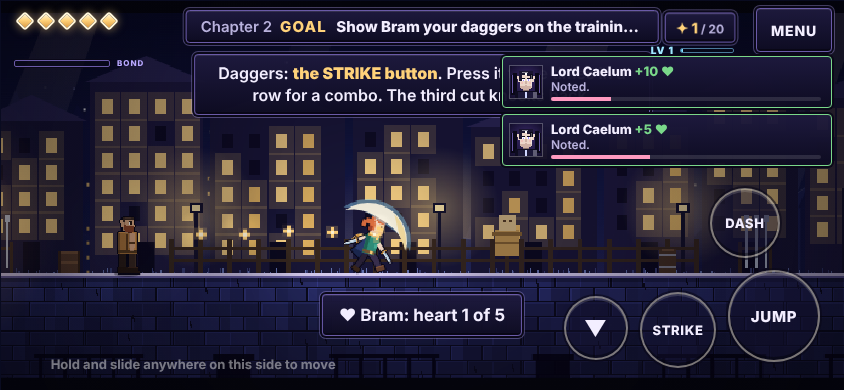
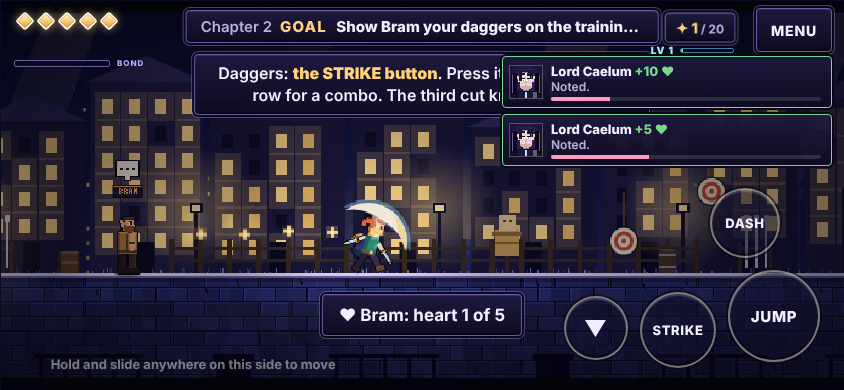
Starhaven Reimagined 10: Chapter 2 content, fuller fuzz coverage
Chapter 2 gains Bram's question (three answers, two remembered), three rings
that need a cut, a rising strike and an air strike, and sugared plums for
Iris, each called back that evening. The fuzz test now varies dialogue
answers so it plays all of Under the Mountain.

Claude-Session: https://claude.ai/code/session_01PwDoV4SgoNJ5FnbkB1YJ2V

diff --git a/starhaven/game/starhaven.html b/starhaven/game/starhaven.html
@@ -1238,10 +1238,34 @@ h2 { letter-spacing: .12em; text-transform: uppercase; }
       ['wren', '...I know. I\'m staying anyway.'],
       { do: 'bond', who: 'caelum', pts: 20 },
     ],
+    // Chapter 2, more to do
+    ring_bram_talk: [
+      ['bram', 'Before you swing at anything: why are you here, huntress? Not "he stole me". Why are you still here?'],
+      { choose: [
+        { text: '"Because nobody here has lied to me yet."', bond: { bram: 10 }, why: 'He respects a reason that small and that true.', remember: ['bramTruth', 'Told Bram she stays because nobody here has lied to her.', true], then: [['bram', 'Hm. Give it a week. But that\'s a soldier\'s answer. I\'ll take it.']] },
+        { text: '"I\'m here to get strong enough to leave."', bond: { bram: 5 }, why: 'Honest. He\'d have said the same at your age.', remember: ['bramLeave', 'Told Bram she is here to get strong enough to leave.', null], then: [['bram', 'Then I\'ll train you well enough that leaving is your choice and not anyone else\'s.']] },
+        { text: '"That\'s between me and your High Lord."', bond: { bram: -5 }, why: 'He has buried people who kept things from him.', then: [['bram', 'Everything in this city is between you and the people who\'ll bleed next to you. Remember that.']] },
+      ] },
+      ['bram', 'There are three rings hung past the dummy. Cut them all and I\'ll believe your feet as well as your mouth.'],
+    ],
+    ring_rings: [
+      { do: 'flag', name: 'rings3' },
+      ['bram', 'Low, rising, and one from the air. Who taught you to read a target?'],
+      ['wren', 'My father. With a bow, and worse manners.'],
+      { do: 'remember', key: 'rings', text: 'Cut all three of Bram\'s rings.', good: true },
+      { do: 'bond', who: 'bram', pts: 10, liked: true, why: 'Three for three. He stopped pretending not to watch.' },
+    ],
+    ring_plums: [
+      ['narr', 'A market crate, burst open in the thornwood. Most of it is ruined. One paper twist of sugared plums is not.'],
+      ['wren', 'Somebody ran from here in a hurry. ...Iris said something about plums.'],
+      { do: 'remember', key: 'plums', text: 'Saved a twist of sugared plums from the thornwood.', good: true },
+    ],
     ev2_bram: [
       { do: 'art', id: 'fire', title: 'Evening with Bram' },
       ['narr', 'The Training Ring after dark. Bram is burning old practice dummies in a fire pit.'],
       ['bram', 'Come to gloat? You broke my best dummy.'],
+      { if: 'rings', then: [['bram', 'And cut my rings. All three. I\'ve had captains who couldn\'t.']] },
+      { if: 'bramTruth', then: [['bram', 'You said nobody here had lied to you yet. Still true?'], ['wren', 'Still true.'], ['bram', 'Good. Keep counting.']] },
       { choose: [
         { text: 'Bring him spiced bread from the market', liked: 'bram', bond: { bram: 15 }, then: [
           ['bram', 'Is that from the Night Market? Sit down, huntress. You\'re officially my favorite. Don\'t tell Iris.'],
@@ -1263,6 +1287,7 @@ h2 { letter-spacing: .12em; text-transform: uppercase; }
       { do: 'art', id: 'observatory', title: 'Evening with Iris' },
       ['narr', 'A round tower above the Library, full of maps, candles and threads of starlight hanging in the air.'],
       ['iris', 'You came! Nobody visits the seer. They\'re afraid I\'ll tell them how they die.'],
+      { if: 'plums', then: [['wren', 'I found these in the thornwood. I think they were coming to you.'], ['iris', 'SUGARED PLUMS. I saw these arriving and I didn\'t dare believe it. You are my favourite thread.'], { do: 'bond', who: 'iris', pts: 15, liked: true, why: 'Sugared plums, carried out of a thornwood, for her.' }] },
       { choose: [
         { text: 'Bring her sugared plums', liked: 'iris', bond: { iris: 15 }, then: [
           ['iris', 'Plums! Sugared! Oh, you\'re a good thread, Wren. A very good thread.'],
@@ -1635,6 +1660,7 @@ h2 { letter-spacing: .12em; text-transform: uppercase; }
     ],
     hints: [
       { x0: 14, x1: 32, text: 'Daggers: {ATTACK}. Press it three times in a row for a combo. The third cut knocks back.' },
+      { x0: 26, x1: 36, text: 'Bram\'s rings. Cut all three: the low one from the ground, the middle one with a rising strike (hold up and {ATTACK}), the high one from a jump.', until: 'rings3' },
       { x0: 36, x1: 44, text: 'Jump toward a bud. When you are above it, {DOWNSTRIKE} to strike down and bounce.', flag: 'combo' },
       { x0: 61, x1: 69, text: 'Two more cuts: {ATTACK} during a dash is a lunging dash strike. Hold up and {ATTACK} for a rising strike that carries you into the air.', flag: 'pit' },
       { x0: 69, x1: 80, text: 'Thorn sprites glow orange before they lunge. {DASH} through the lunge, then strike.', flag: 'pit' },
@@ -1645,9 +1671,12 @@ h2 { letter-spacing: .12em; text-transform: uppercase; }
     ],
     gates: [{ id: 'pitgate', x: 38, top: 6 }, { id: 'northgate', x: 64, top: 6 }],
     lanterns: [{ x: 4, lit: true }, { x: 61 }, { x: 68 }],
-    npcs: [{ id: 'bram', x: 11 }, { id: 'iris', x: 62.5, optional: 'iris' }],
+    npcs: [{ id: 'bram', x: 11, optional: 'ring_bram_talk' }, { id: 'iris', x: 62.5, optional: 'iris' }],
     spawns: [
       { kind: 'dummy', x: 24 },
+      // Bram's three rings: one at chest height, one that wants a rising strike, one that wants a strike from a jump
+      { kind: 'target', blade: true, x: 28, y: 14.9 }, { kind: 'target', blade: true, x: 31, y: 13.2 }, { kind: 'target', blade: true, x: 34.5, y: 11.6 },
+      { kind: 'pickup', what: 'plums', x: 97 },
       { kind: 'bulb', x: 45.5, y: 12.6 },
       { kind: 'bulb', x: 50.5, y: 12.4 },
       { kind: 'bulb', x: 55.5, y: 12.6 },
@@ -2876,7 +2905,7 @@ h2 { letter-spacing: .12em; text-transform: uppercase; }
     this.near = !this.checked && Math.abs(p.x - this.x) < 26 && Math.abs(p.y - this.y) < 30 && p.grounded;
     if (this.near && world.input.pressed.up) { this.checked = true; this.near = false; world.onSnare(this.n); }
   };
-  function Target(x, y) { Object.assign(this, { kind: 'target', x, y, hit: false, arrowOnly: true, wob: 0 }); }
+  function Target(x, y, blade) { Object.assign(this, { kind: 'target', x, y, hit: false, arrowOnly: !blade, blade: !!blade, wob: 0 }); }   // blade: Bram's rings, cut with daggers
   Target.prototype.reset = function () { };
   Target.prototype.hittable = function () { return !this.hit; };
   Target.prototype.hurtBox = function () { return { l: this.x - 10, r: this.x + 10, t: this.y - 15, b: this.y + 15 }; };
@@ -2884,7 +2913,7 @@ h2 { letter-spacing: .12em; text-transform: uppercase; }
   Target.prototype.takeHit = function (hit, world) {
     this.hit = true; this.wob = 30; SH.sfx.play('hit');
     SH.fx.word(this.x, this.y - 22, 'BULLSEYE', '#ffd27a', 50); SH.fx.spark(this.x, this.y, 0, true);
-    world.onTarget(); return { landed: true };
+    world.onTarget(this); return { landed: true };
   };
   // The wolf is as hungry as the sisters. One arrow and it backs off hurt: then it is Wren's choice,
   // made with the bow and not a menu. Shoot again, or lower the bow and let it go.
@@ -3113,7 +3142,7 @@ h2 { letter-spacing: .12em; text-transform: uppercase; }
     if (s.kind === 'brazier') return new Brazier(x, y);
     if (s.kind === 'pickup') return new Pickup(x, y, s.what);
     if (s.kind === 'snare') return new Snare(x, y, s.n);
-    if (s.kind === 'target') return new Target(x, s.y * T);
+    if (s.kind === 'target') return new Target(x, s.y * T, s.blade);
     if (s.kind === 'wolf') return new Wolf(x, y);
     if (s.kind === 'wyrmling' || s.kind === 'oldWyrm') return new Wyrm(x, y, s.kind);
     throw new Error('unknown spawn ' + s.kind);
@@ -5790,6 +5819,7 @@ h2 { letter-spacing: .12em; text-transform: uppercase; }
       const bob = Math.round(Math.sin(t * 0.08 + e.x) * 1.5);
       const gl = ctx.createRadialGradient(e.x, e.y - 8, 1, e.x, e.y - 8, 22); gl.addColorStop(0, 'rgba(255,246,216,0.3)'); gl.addColorStop(1, 'rgba(0,0,0,0)'); ctx.fillStyle = gl; ctx.fillRect(e.x - 22, e.y - 30, 44, 44);
       if (e.what === 'cat') { const tl = Math.sin(t * 0.1) * 2; R(-7, -9, 13, 8, '#0a0818'); R(-6, -8, 11, 7, '#2a2630'); R(3, -13, 7, 7, '#0a0818'); R(4, -12, 5, 5, '#2a2630'); R(4, -14, 2, 2, '#2a2630'); R(7, -14, 2, 2, '#2a2630'); R(5, -10, 1, 1, '#ffd27a'); R(7, -10, 1, 1, '#ffd27a'); R(-9, -10 + tl, 2, 6, '#2a2630'); R(-5, -5, 3, 1, '#f4f0e0'); }
+      else if (e.what === 'plums') { R(-7, -9 + bob, 14, 9, '#0a0818'); R(-6, -8 + bob, 12, 7, '#6a4a34'); R(-6, -8 + bob, 12, 1, '#a8743a'); for (let i = 0; i < 3; i++) { R(-5 + i * 4, -12 + bob, 3, 4, '#7a3a8a'); R(-5 + i * 4, -12 + bob, 1, 1, '#ffffff'); } }
       else if (e.what === 'page') { R(-6, -12 + bob, 12, 14, '#0a0818'); R(-5, -11 + bob, 10, 12, '#f4f0e0'); for (let i = 0; i < 4; i++) R(-3, -9 + i * 3 + bob, 6, 1, '#6a5aa8'); R(-5, -11 + bob, 3, 3, '#e8c070'); }
       else if (e.what === 'wood') { R(-10, -9 + bob, 20, 9, '#0a0818'); R(-9, -8 + bob, 18, 3, '#7a5636'); R(-9, -5 + bob, 18, 3, '#5e3e28'); R(-9, -2 + bob, 18, 1, '#4a3020'); R(-9, -8 + bob, 2, 6, '#c8a878'); R(-2, -10 + bob, 3, 10, '#c8b890'); R(-9, -8 + bob, 18, 1, '#ffffff'); }
       else { R(-1, -12 + bob, 2, 12, '#3f6a3f'); R(-6, -12 + bob, 5, 3, '#8fd16b'); R(1, -15 + bob, 5, 3, '#8fd16b'); R(-5, -7 + bob, 4, 3, '#6ab04a'); R(2, -9 + bob, 4, 3, '#6ab04a'); R(-1, -17 + bob, 2, 2, '#ff9ac0'); }
@@ -6003,6 +6033,7 @@ h2 { letter-spacing: .12em; text-transform: uppercase; }
       onStagDown() { SH.sfx.play('kill'); G.queueScript('woods_kill'); },
       // the Winter Woods
       onPickup(what) {
+        if (what === 'plums') { G.queueScript('ring_plums'); return; }
         if (what === 'cat') { G.queueScript('ashes_cat_found'); return; }
         if (what === 'page') { G.queueScript('mtn_page'); return; }
         if (what === 'herb') { G.remember('green', 'Found wintergreen under the snow for Lissa.', true); G.queueScript('woods_herb'); return; }
@@ -6011,7 +6042,7 @@ h2 { letter-spacing: .12em; text-transform: uppercase; }
         if (G.flags.n_wood === 3) G.queueScript('woods_wood');
       },
       onSnare(n) { SH.xp.gain(3, true); G.flags.n_snares = (G.flags.n_snares || 0) + 1; if (G.flags.n_snares >= 3) G.flags.snares3 = true; G.hud.goal(true); G.queueScript('woods_snare' + n); },
-      onTarget() { SH.xp.gain(4, true); G.flags.n_targets = (G.flags.n_targets || 0) + 1; if (G.flags.n_targets === 3) G.queueScript('woods_targets'); },
+      onTarget(tg) { SH.xp.gain(4, true); if (tg && tg.blade) { G.flags.n_rings = (G.flags.n_rings || 0) + 1; if (G.flags.n_rings === 3) G.queueScript('ring_rings'); return; } G.flags.n_targets = (G.flags.n_targets || 0) + 1; if (G.flags.n_targets === 3) G.queueScript('woods_targets'); },
       onWolf(what) { if (what === 'killed' || what === 'spared') SH.xp.gain(15, true); G.queueScript('woods_wolf_' + what); },
       onDummyCombo() { if (G.activeGoal === 'combo' && def.dummyCombo) G.queueScript(def.dummyCombo); },
     };

diff --git a/starhaven/game/src/story.js b/starhaven/game/src/story.js
@@ -627,10 +627,34 @@
       ['wren', '...I know. I\'m staying anyway.'],
       { do: 'bond', who: 'caelum', pts: 20 },
     ],
+    // Chapter 2, more to do
+    ring_bram_talk: [
+      ['bram', 'Before you swing at anything: why are you here, huntress? Not "he stole me". Why are you still here?'],
+      { choose: [
+        { text: '"Because nobody here has lied to me yet."', bond: { bram: 10 }, why: 'He respects a reason that small and that true.', remember: ['bramTruth', 'Told Bram she stays because nobody here has lied to her.', true], then: [['bram', 'Hm. Give it a week. But that\'s a soldier\'s answer. I\'ll take it.']] },
+        { text: '"I\'m here to get strong enough to leave."', bond: { bram: 5 }, why: 'Honest. He\'d have said the same at your age.', remember: ['bramLeave', 'Told Bram she is here to get strong enough to leave.', null], then: [['bram', 'Then I\'ll train you well enough that leaving is your choice and not anyone else\'s.']] },
+        { text: '"That\'s between me and your High Lord."', bond: { bram: -5 }, why: 'He has buried people who kept things from him.', then: [['bram', 'Everything in this city is between you and the people who\'ll bleed next to you. Remember that.']] },
+      ] },
+      ['bram', 'There are three rings hung past the dummy. Cut them all and I\'ll believe your feet as well as your mouth.'],
+    ],
+    ring_rings: [
+      { do: 'flag', name: 'rings3' },
+      ['bram', 'Low, rising, and one from the air. Who taught you to read a target?'],
+      ['wren', 'My father. With a bow, and worse manners.'],
+      { do: 'remember', key: 'rings', text: 'Cut all three of Bram\'s rings.', good: true },
+      { do: 'bond', who: 'bram', pts: 10, liked: true, why: 'Three for three. He stopped pretending not to watch.' },
+    ],
+    ring_plums: [
+      ['narr', 'A market crate, burst open in the thornwood. Most of it is ruined. One paper twist of sugared plums is not.'],
+      ['wren', 'Somebody ran from here in a hurry. ...Iris said something about plums.'],
+      { do: 'remember', key: 'plums', text: 'Saved a twist of sugared plums from the thornwood.', good: true },
+    ],
     ev2_bram: [
       { do: 'art', id: 'fire', title: 'Evening with Bram' },
       ['narr', 'The Training Ring after dark. Bram is burning old practice dummies in a fire pit.'],
       ['bram', 'Come to gloat? You broke my best dummy.'],
+      { if: 'rings', then: [['bram', 'And cut my rings. All three. I\'ve had captains who couldn\'t.']] },
+      { if: 'bramTruth', then: [['bram', 'You said nobody here had lied to you yet. Still true?'], ['wren', 'Still true.'], ['bram', 'Good. Keep counting.']] },
       { choose: [
         { text: 'Bring him spiced bread from the market', liked: 'bram', bond: { bram: 15 }, then: [
           ['bram', 'Is that from the Night Market? Sit down, huntress. You\'re officially my favorite. Don\'t tell Iris.'],
@@ -652,6 +676,7 @@
       { do: 'art', id: 'observatory', title: 'Evening with Iris' },
       ['narr', 'A round tower above the Library, full of maps, candles and threads of starlight hanging in the air.'],
       ['iris', 'You came! Nobody visits the seer. They\'re afraid I\'ll tell them how they die.'],
+      { if: 'plums', then: [['wren', 'I found these in the thornwood. I think they were coming to you.'], ['iris', 'SUGARED PLUMS. I saw these arriving and I didn\'t dare believe it. You are my favourite thread.'], { do: 'bond', who: 'iris', pts: 15, liked: true, why: 'Sugared plums, carried out of a thornwood, for her.' }] },
       { choose: [
         { text: 'Bring her sugared plums', liked: 'iris', bond: { iris: 15 }, then: [
           ['iris', 'Plums! Sugared! Oh, you\'re a good thread, Wren. A very good thread.'],

diff --git a/starhaven/game/tests/feel.js b/starhaven/game/tests/feel.js
@@ -588,6 +588,24 @@ const path = require('path');
       SH.saves.erase(0);
     })();
 
+    // Chapter 2, more to do: Bram's question, his three rings, plums for Iris
+    (function () {
+      SH.test.load('ring', { story: false }); G.progress.bonds = {}; G.progress.mem = {}; SH.test.choice = 0; const p = P(), w = G.world;
+      const bram = w.npcs.find(n => n.id === 'bram'); SH.test.place(bram.x / T + 1, 16); for (let i = 0; i < 4; i++) step({}, null); step({}, ['up']);
+      const asked = G.script && G.script.id === 'ring_bram_talk'; for (let i = 0; i < 400 && G.state === 'talk'; i++) talk({}, null);
+      const rings = w.things.filter(e => e.kind === 'target');
+      const run = n => { for (let i = 0; i < n; i++) { SH.fx.hitstop = 0; step({}, null); } };
+      SH.test.place(rings[0].x / T - 1.3, 16); p.facing = 1; run(3); step({}, ['attack']); run(20);                         // low: from the ground
+      SH.test.place(rings[1].x / T - 1.2, 16); p.facing = 1; run(30); step({ up: true }, ['attack']); run(30);              // middle: a rising strike
+      SH.test.place(rings[2].x / T - 1.3, 16); p.facing = 1; run(30); step({ jump: true }, ['jump']); let hitAir = false;
+      for (let i = 0; i < 40; i++) { const press = !p.swing && p.vy > -3 && !rings[2].hit ? ['attack'] : null; SH.fx.hitstop = 0; step({ jump: true }, press); }
+      for (let i = 0; i < 400 && (i < 30 || G.state === 'talk'); i++) talk({}, null);
+      const pl = w.things.find(e => e.kind === 'pickup' && e.what === 'plums'); p.x = pl.x; p.y = pl.y; for (let i = 0; i < 300 && (i < 5 || G.state === 'talk'); i++) talk({}, null);
+      const b = G.progress.bonds.bram || { pts: 0 };
+      check('Chapter 2: Bram asks why she stays (remembered); his three rings fall to a cut, a rising strike and an air strike; plums are found for Iris', asked && rings.every(r => r.hit) && G.recalls('bramTruth') && G.recalls('rings') && G.recalls('plums') && b.pts >= 20,
+        { asked, rings: rings.map(r => r.hit), remembered: Object.keys(G.progress.mem), bram: b.pts });
+    })();
+
     // Systems explain themselves the first time, once
     (function () {
       SH.test.load('woods', { story: false, explain: true }); G.progress.seen = {};

diff --git a/starhaven/game/src/enemies.js b/starhaven/game/src/enemies.js
@@ -221,7 +221,7 @@
     this.near = !this.checked && Math.abs(p.x - this.x) < 26 && Math.abs(p.y - this.y) < 30 && p.grounded;
     if (this.near && world.input.pressed.up) { this.checked = true; this.near = false; world.onSnare(this.n); }
   };
-  function Target(x, y) { Object.assign(this, { kind: 'target', x, y, hit: false, arrowOnly: true, wob: 0 }); }
+  function Target(x, y, blade) { Object.assign(this, { kind: 'target', x, y, hit: false, arrowOnly: !blade, blade: !!blade, wob: 0 }); }   // blade: Bram's rings, cut with daggers
   Target.prototype.reset = function () { };
   Target.prototype.hittable = function () { return !this.hit; };
   Target.prototype.hurtBox = function () { return { l: this.x - 10, r: this.x + 10, t: this.y - 15, b: this.y + 15 }; };
@@ -229,7 +229,7 @@
   Target.prototype.takeHit = function (hit, world) {
     this.hit = true; this.wob = 30; SH.sfx.play('hit');
     SH.fx.word(this.x, this.y - 22, 'BULLSEYE', '#ffd27a', 50); SH.fx.spark(this.x, this.y, 0, true);
-    world.onTarget(); return { landed: true };
+    world.onTarget(this); return { landed: true };
   };
   // The wolf is as hungry as the sisters. One arrow and it backs off hurt: then it is Wren's choice,
   // made with the bow and not a menu. Shoot again, or lower the bow and let it go.
@@ -458,7 +458,7 @@
     if (s.kind === 'brazier') return new Brazier(x, y);
     if (s.kind === 'pickup') return new Pickup(x, y, s.what);
     if (s.kind === 'snare') return new Snare(x, y, s.n);
-    if (s.kind === 'target') return new Target(x, s.y * T);
+    if (s.kind === 'target') return new Target(x, s.y * T, s.blade);
     if (s.kind === 'wolf') return new Wolf(x, y);
     if (s.kind === 'wyrmling' || s.kind === 'oldWyrm') return new Wyrm(x, y, s.kind);
     throw new Error('unknown spawn ' + s.kind);

diff --git a/starhaven/game/src/rooms.js b/starhaven/game/src/rooms.js
@@ -172,6 +172,7 @@
     ],
     hints: [
       { x0: 14, x1: 32, text: 'Daggers: {ATTACK}. Press it three times in a row for a combo. The third cut knocks back.' },
+      { x0: 26, x1: 36, text: 'Bram\'s rings. Cut all three: the low one from the ground, the middle one with a rising strike (hold up and {ATTACK}), the high one from a jump.', until: 'rings3' },
       { x0: 36, x1: 44, text: 'Jump toward a bud. When you are above it, {DOWNSTRIKE} to strike down and bounce.', flag: 'combo' },
       { x0: 61, x1: 69, text: 'Two more cuts: {ATTACK} during a dash is a lunging dash strike. Hold up and {ATTACK} for a rising strike that carries you into the air.', flag: 'pit' },
       { x0: 69, x1: 80, text: 'Thorn sprites glow orange before they lunge. {DASH} through the lunge, then strike.', flag: 'pit' },
@@ -182,9 +183,12 @@
     ],
     gates: [{ id: 'pitgate', x: 38, top: 6 }, { id: 'northgate', x: 64, top: 6 }],
     lanterns: [{ x: 4, lit: true }, { x: 61 }, { x: 68 }],
-    npcs: [{ id: 'bram', x: 11 }, { id: 'iris', x: 62.5, optional: 'iris' }],
+    npcs: [{ id: 'bram', x: 11, optional: 'ring_bram_talk' }, { id: 'iris', x: 62.5, optional: 'iris' }],
     spawns: [
       { kind: 'dummy', x: 24 },
+      // Bram's three rings: one at chest height, one that wants a rising strike, one that wants a strike from a jump
+      { kind: 'target', blade: true, x: 28, y: 14.9 }, { kind: 'target', blade: true, x: 31, y: 13.2 }, { kind: 'target', blade: true, x: 34.5, y: 11.6 },
+      { kind: 'pickup', what: 'plums', x: 97 },
       { kind: 'bulb', x: 45.5, y: 12.6 },
       { kind: 'bulb', x: 50.5, y: 12.4 },
       { kind: 'bulb', x: 55.5, y: 12.6 },

diff --git a/starhaven/game/src/draw.js b/starhaven/game/src/draw.js
@@ -840,6 +840,7 @@
       const bob = Math.round(Math.sin(t * 0.08 + e.x) * 1.5);
       const gl = ctx.createRadialGradient(e.x, e.y - 8, 1, e.x, e.y - 8, 22); gl.addColorStop(0, 'rgba(255,246,216,0.3)'); gl.addColorStop(1, 'rgba(0,0,0,0)'); ctx.fillStyle = gl; ctx.fillRect(e.x - 22, e.y - 30, 44, 44);
       if (e.what === 'cat') { const tl = Math.sin(t * 0.1) * 2; R(-7, -9, 13, 8, '#0a0818'); R(-6, -8, 11, 7, '#2a2630'); R(3, -13, 7, 7, '#0a0818'); R(4, -12, 5, 5, '#2a2630'); R(4, -14, 2, 2, '#2a2630'); R(7, -14, 2, 2, '#2a2630'); R(5, -10, 1, 1, '#ffd27a'); R(7, -10, 1, 1, '#ffd27a'); R(-9, -10 + tl, 2, 6, '#2a2630'); R(-5, -5, 3, 1, '#f4f0e0'); }
+      else if (e.what === 'plums') { R(-7, -9 + bob, 14, 9, '#0a0818'); R(-6, -8 + bob, 12, 7, '#6a4a34'); R(-6, -8 + bob, 12, 1, '#a8743a'); for (let i = 0; i < 3; i++) { R(-5 + i * 4, -12 + bob, 3, 4, '#7a3a8a'); R(-5 + i * 4, -12 + bob, 1, 1, '#ffffff'); } }
       else if (e.what === 'page') { R(-6, -12 + bob, 12, 14, '#0a0818'); R(-5, -11 + bob, 10, 12, '#f4f0e0'); for (let i = 0; i < 4; i++) R(-3, -9 + i * 3 + bob, 6, 1, '#6a5aa8'); R(-5, -11 + bob, 3, 3, '#e8c070'); }
       else if (e.what === 'wood') { R(-10, -9 + bob, 20, 9, '#0a0818'); R(-9, -8 + bob, 18, 3, '#7a5636'); R(-9, -5 + bob, 18, 3, '#5e3e28'); R(-9, -2 + bob, 18, 1, '#4a3020'); R(-9, -8 + bob, 2, 6, '#c8a878'); R(-2, -10 + bob, 3, 10, '#c8b890'); R(-9, -8 + bob, 18, 1, '#ffffff'); }
       else { R(-1, -12 + bob, 2, 12, '#3f6a3f'); R(-6, -12 + bob, 5, 3, '#8fd16b'); R(1, -15 + bob, 5, 3, '#8fd16b'); R(-5, -7 + bob, 4, 3, '#6ab04a'); R(2, -9 + bob, 4, 3, '#6ab04a'); R(-1, -17 + bob, 2, 2, '#ff9ac0'); }

diff --git a/starhaven/game/src/game.js b/starhaven/game/src/game.js
@@ -103,6 +103,7 @@
       onStagDown() { SH.sfx.play('kill'); G.queueScript('woods_kill'); },
       // the Winter Woods
       onPickup(what) {
+        if (what === 'plums') { G.queueScript('ring_plums'); return; }
         if (what === 'cat') { G.queueScript('ashes_cat_found'); return; }
         if (what === 'page') { G.queueScript('mtn_page'); return; }
         if (what === 'herb') { G.remember('green', 'Found wintergreen under the snow for Lissa.', true); G.queueScript('woods_herb'); return; }
@@ -111,7 +112,7 @@
         if (G.flags.n_wood === 3) G.queueScript('woods_wood');
       },
       onSnare(n) { SH.xp.gain(3, true); G.flags.n_snares = (G.flags.n_snares || 0) + 1; if (G.flags.n_snares >= 3) G.flags.snares3 = true; G.hud.goal(true); G.queueScript('woods_snare' + n); },
-      onTarget() { SH.xp.gain(4, true); G.flags.n_targets = (G.flags.n_targets || 0) + 1; if (G.flags.n_targets === 3) G.queueScript('woods_targets'); },
+      onTarget(tg) { SH.xp.gain(4, true); if (tg && tg.blade) { G.flags.n_rings = (G.flags.n_rings || 0) + 1; if (G.flags.n_rings === 3) G.queueScript('ring_rings'); return; } G.flags.n_targets = (G.flags.n_targets || 0) + 1; if (G.flags.n_targets === 3) G.queueScript('woods_targets'); },
       onWolf(what) { if (what === 'killed' || what === 'spared') SH.xp.gain(15, true); G.queueScript('woods_wolf_' + what); },
       onDummyCombo() { if (G.activeGoal === 'combo' && def.dummyCombo) G.queueScript(def.dummyCombo); },
     };

diff --git a/starhaven/game/tests/fuzz.js b/starhaven/game/tests/fuzz.js
@@ -15,6 +15,7 @@ const { chromium } = require('playwright'); const path = require('path');
         const G = SH.game, acts = ['jump', 'attack', 'dash', 'up', 'gift', 'art', 'downstrike'], seen = new Set(); let held = { right: true }, far = 0, stuck = 0, lastX = 0;
         try {
           for (let f = 0; f < N; f++) {
+            if (f % 90 === 0) SH.test.choice = (rnd() * 3) | 0;   // vary the answers, or the riddle is asked forever
             if (f % 40 === 0) held = { right: rnd() < 0.72, left: rnd() < 0.12, jump: rnd() < 0.5, up: rnd() < 0.15, down: rnd() < 0.1, gift: rnd() < 0.2 };
             const press = rnd() < 0.2 ? [acts[(rnd() * acts.length) | 0]] : null;
             if (G.state === 'explain') G.explainClose();

diff --git a/starhaven/CHANGELOG.md b/starhaven/CHANGELOG.md
@@ -1,5 +1,30 @@
 # Starhaven — Changelog
 
+## Reimagined 10 — Chapter 2 filled out, and a full retest (Nov 18, 2026)
+Will: make the current slice more content rich and developed, and retest for bugs.
+
+**Chapter 2, The Five,** was the one chapter with nothing new since before the reimagining. Now:
+- **Bram asks why she is still here** before she swings at anything (walk up and TALK). Three answers: one he
+  respects, one he understands, one that costs her with him. Two are remembered, and he comes back to the first one at
+  the fire that evening.
+- **Bram's three rings,** hung past the dummy: the low one falls to a cut from the ground, the middle one wants a
+  rising strike, the high one a strike from a jump. Cutting all three is remembered, earns XP and +10 with Bram, and
+  he mentions it that evening.
+- **Sugared plums for Iris:** a burst market crate in the thornwood. Spend the evening with Iris and she gets them
+  (+15: they are the thing she loves).
+
+**Retest.**
+- All suites: 50 play checks, 19 menu checks, the screenshot run.
+- The random-input run at 9,000 frames a chapter, sideways and upright: no errors. It had a blind spot: it gave the
+  same answer to the riddle forever and never left the first room Under the Mountain. It now varies its answers and
+  runs that whole level (to tile 143 of 150).
+- A save and reload carrying every kind of progress at once (level, remembered choices, a bond pushed below zero and
+  held at zero, Starlight from people, a lit star, explanations seen): identical before and after.
+- No new bugs were found in this pass.
+
+**Honest notes.** "No errors" means no crashes and no broken numbers under random play; it does not mean nothing looks
+or feels wrong. **Not played by hand or on a phone.**
+
 ## Reimagined 9 — levels, tighter controls (Nov 18, 2026)
 Will: analyze what matters; refine the gameplay and tighten the controls; add more experience progression and build it
 out; improve the quality overall.
